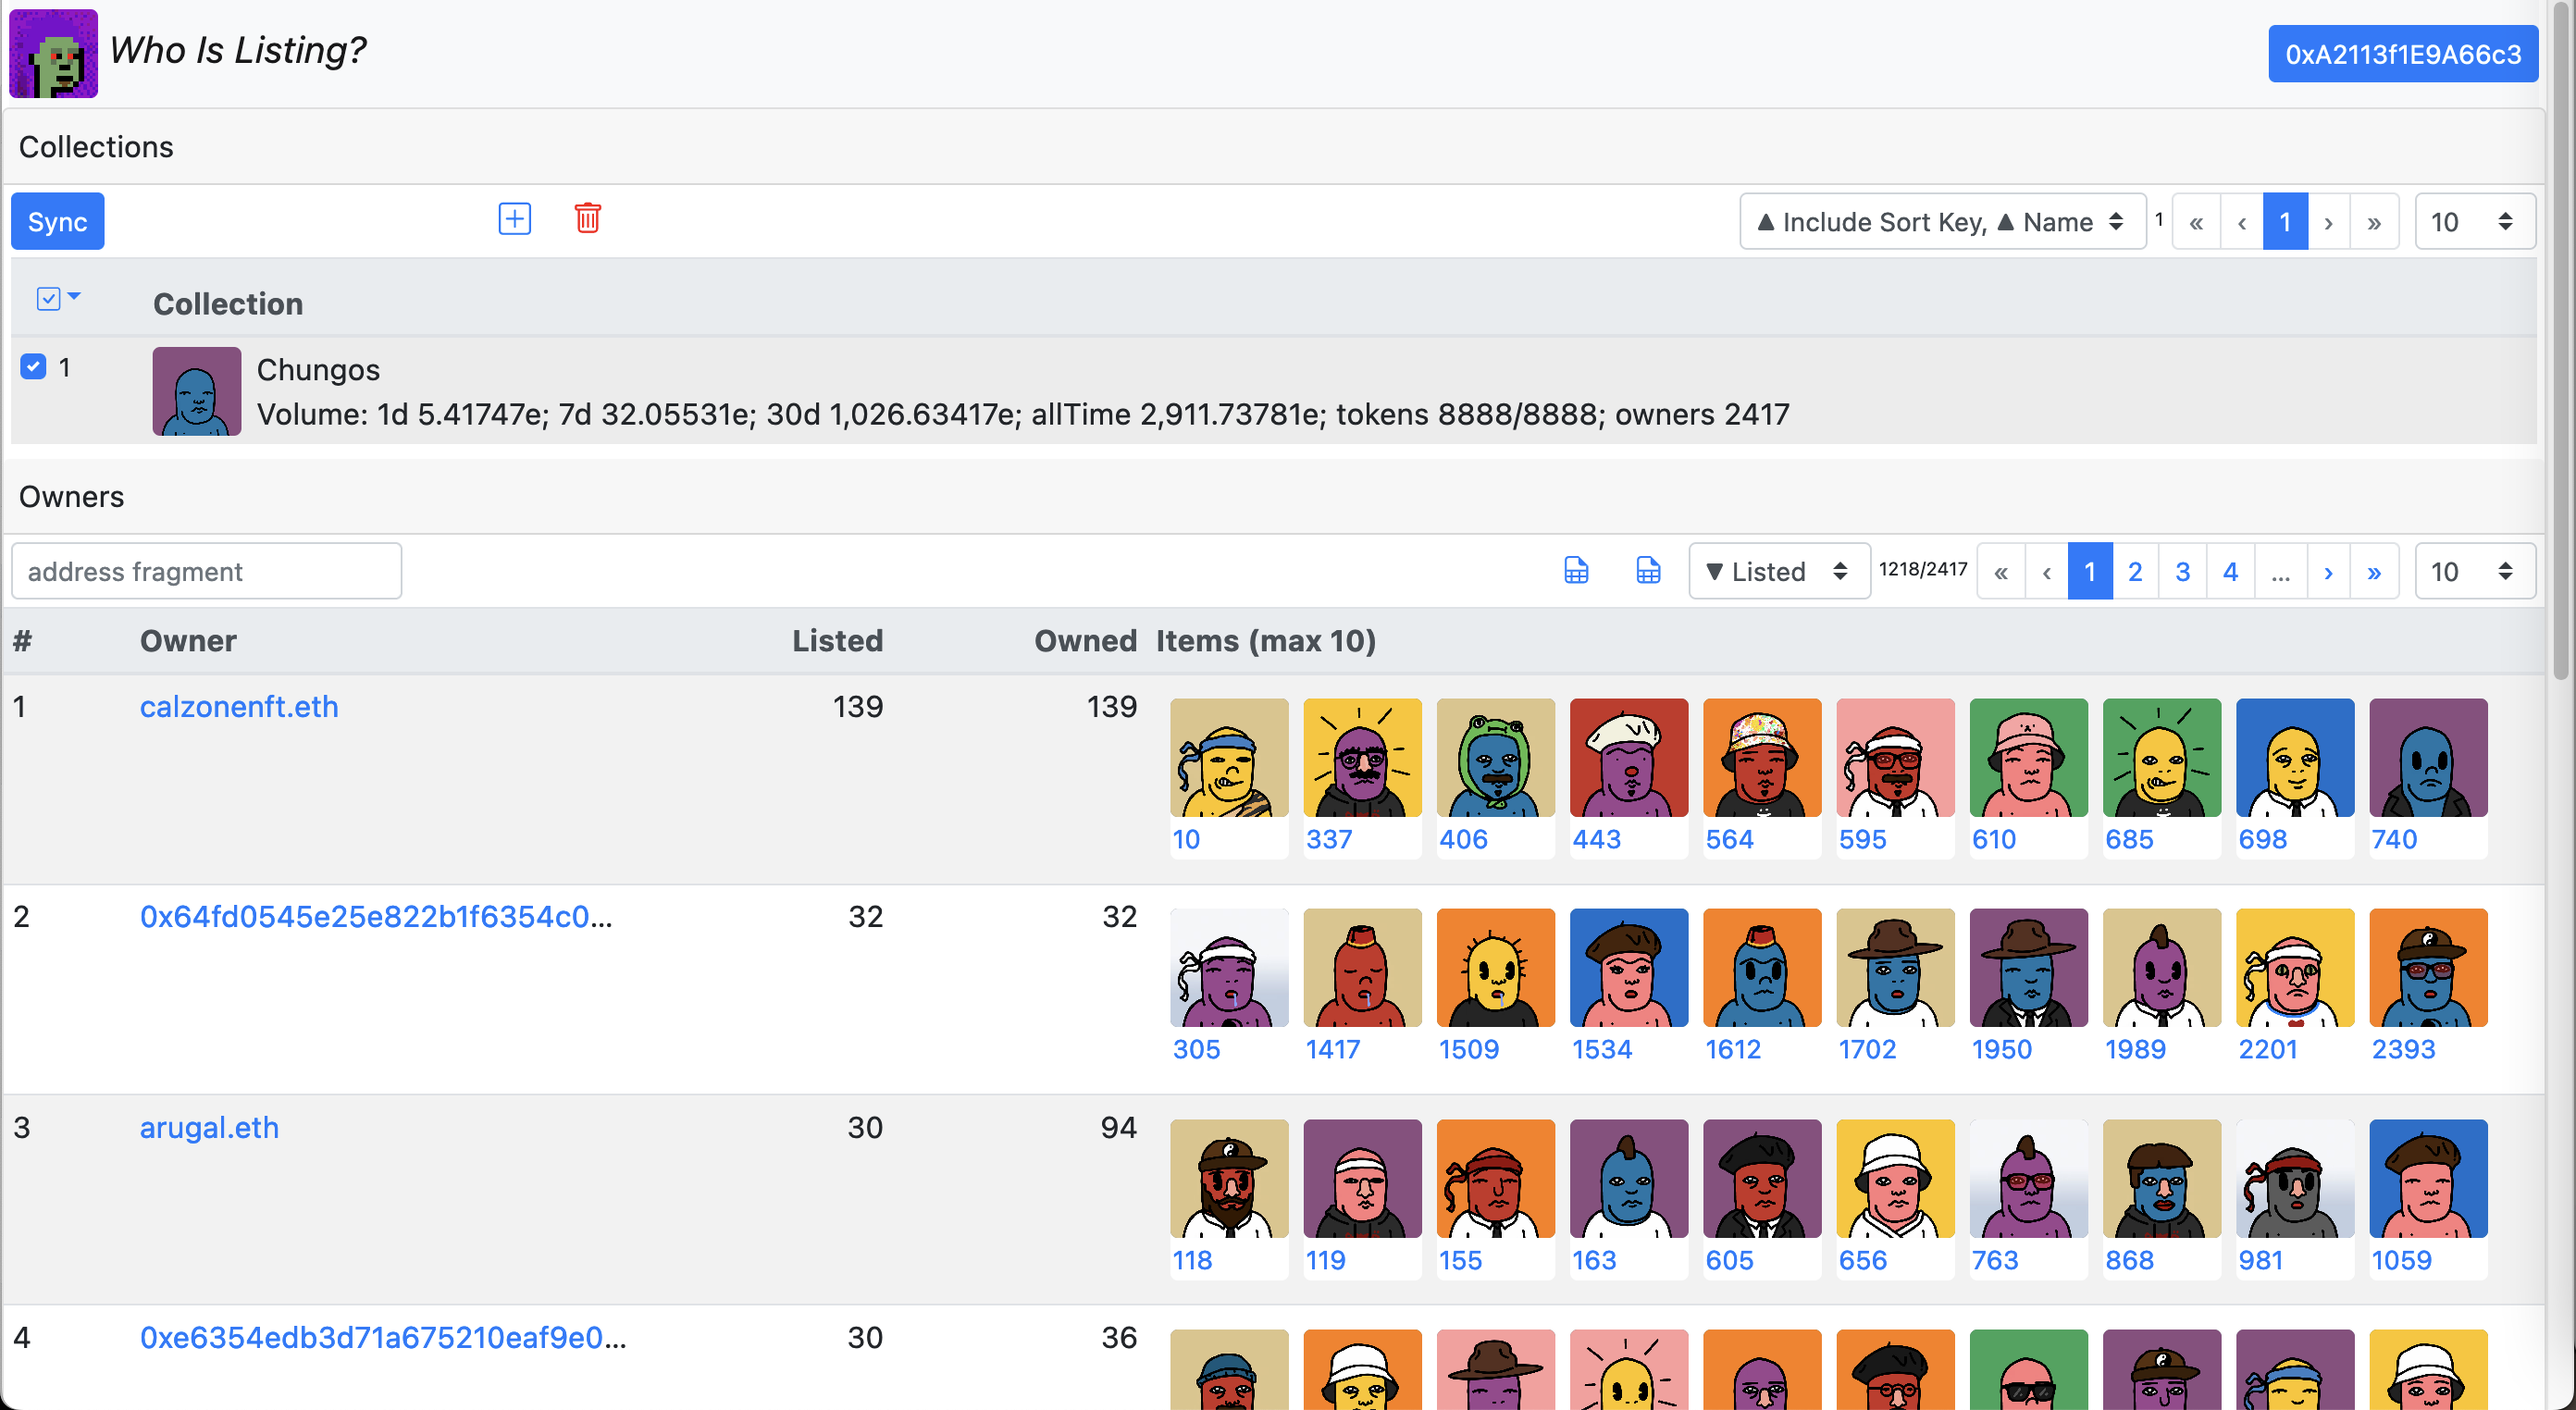
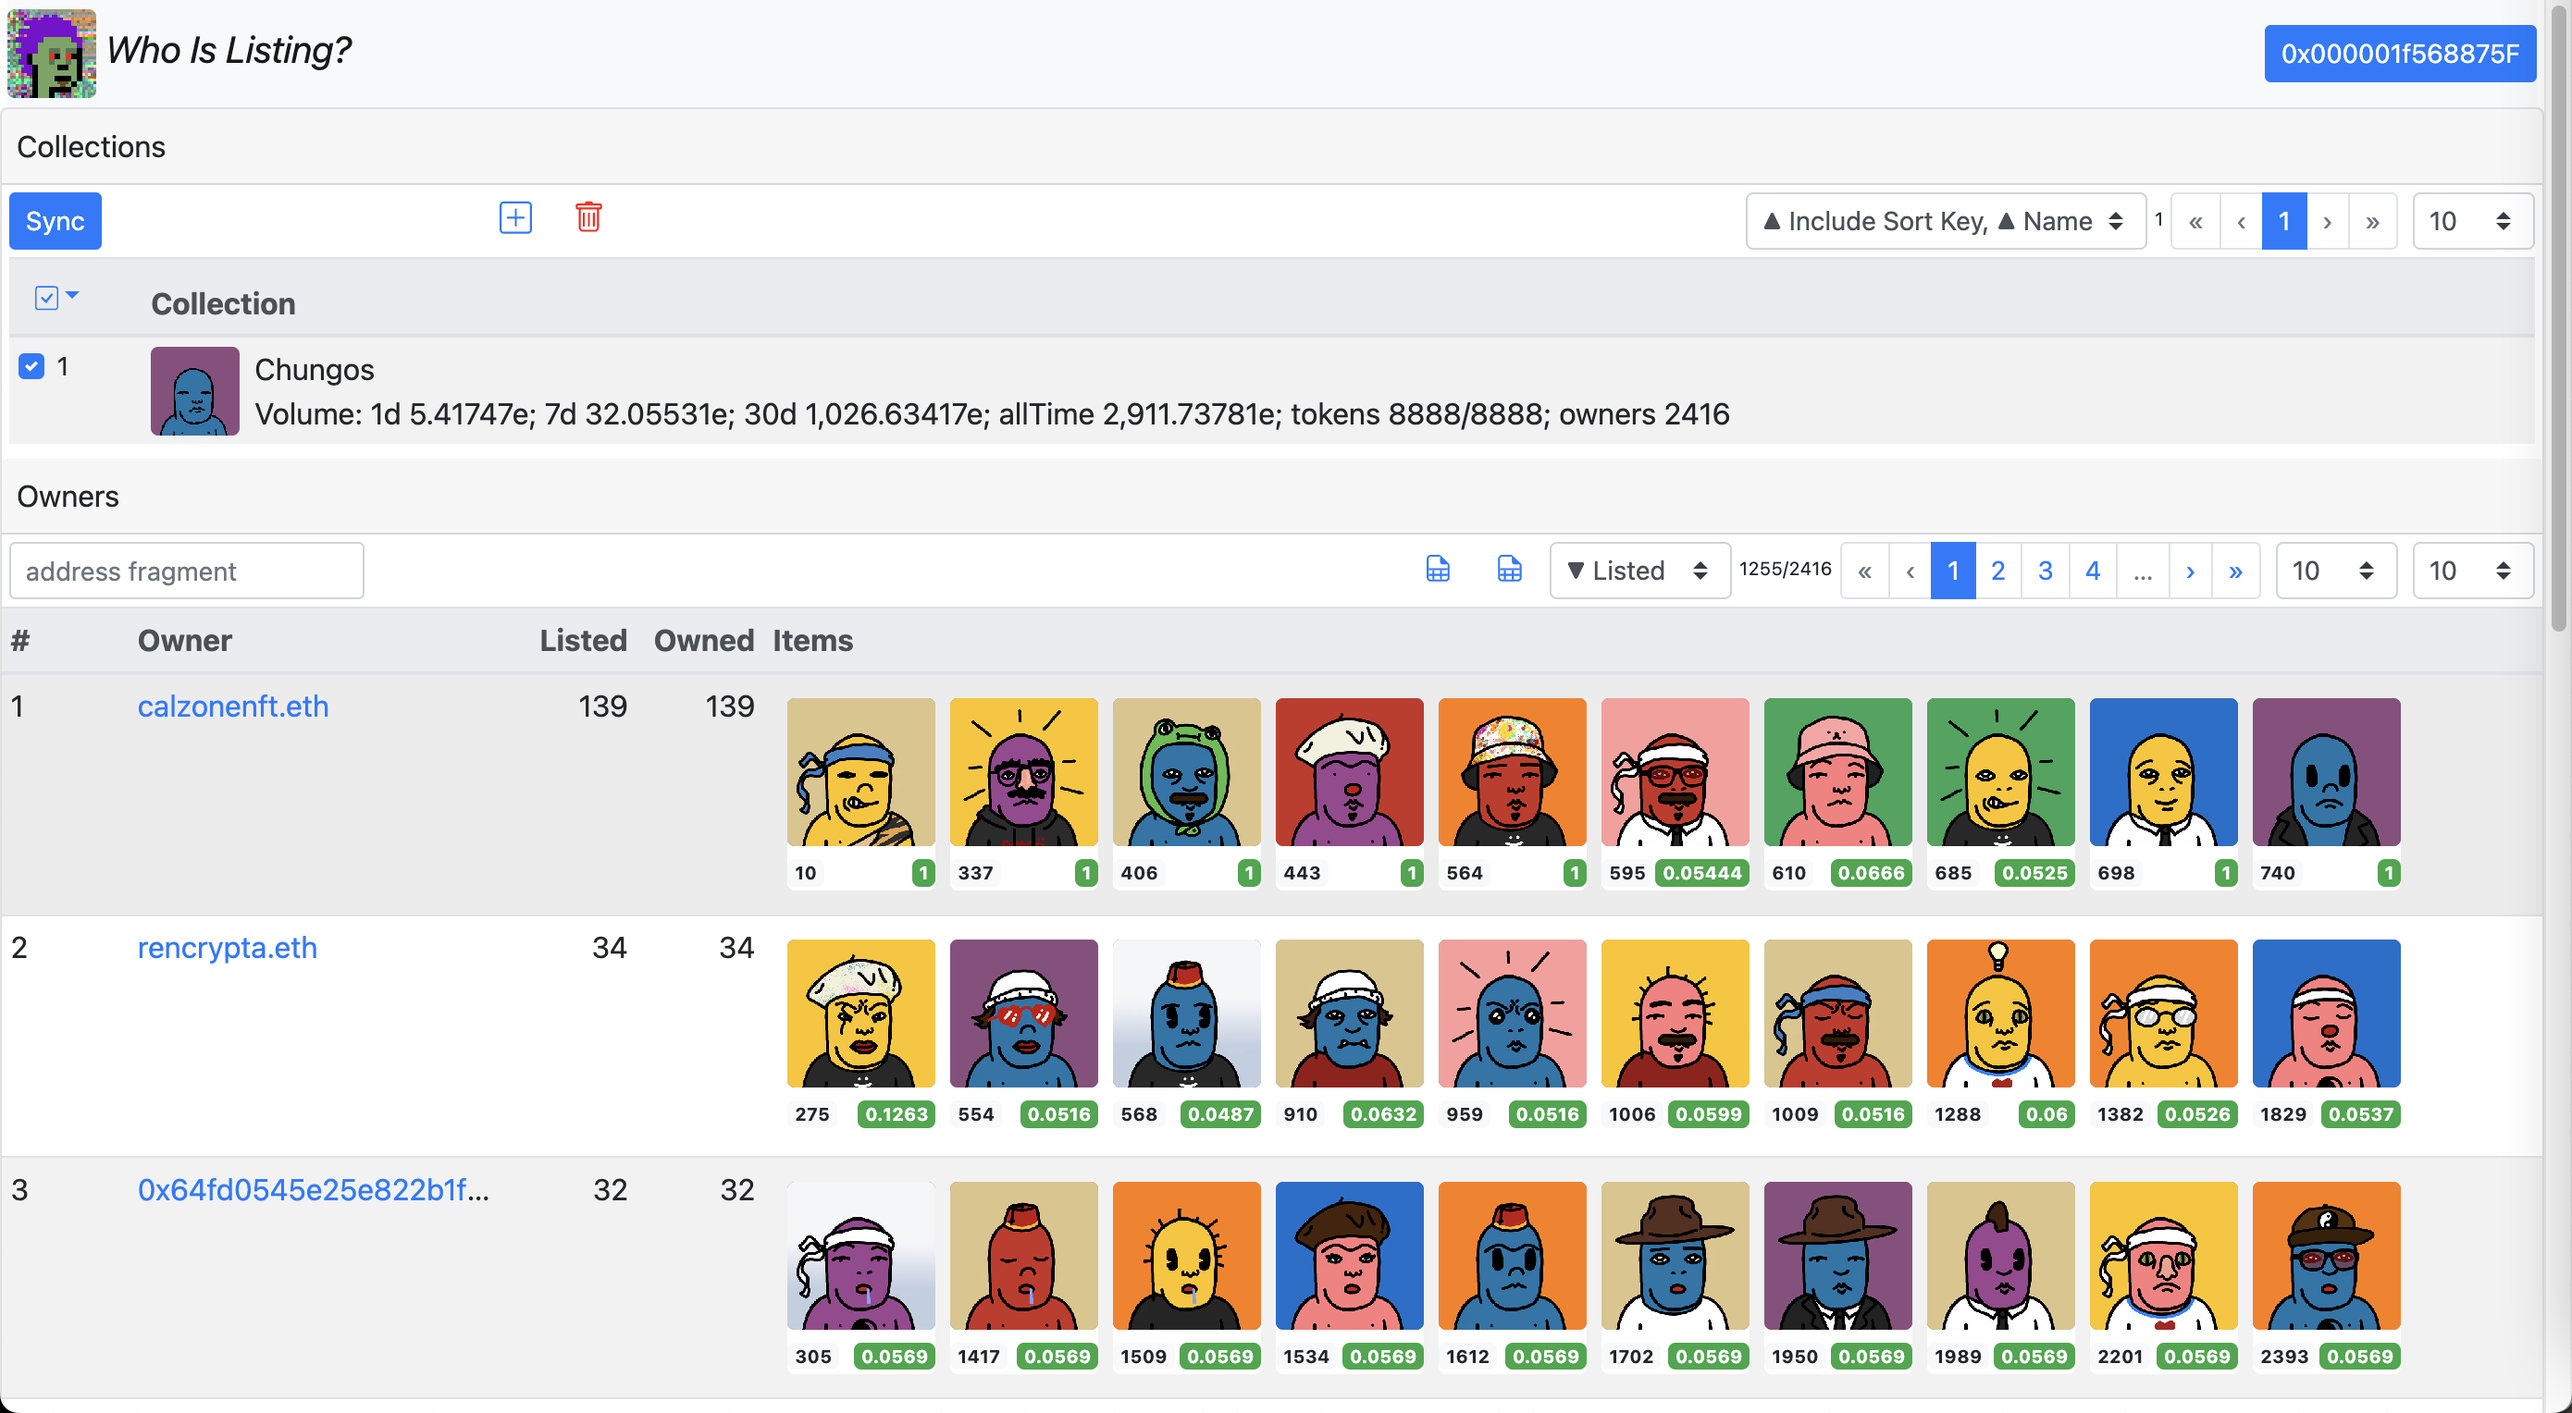
display prices

diff --git a/docs/index.html b/docs/index.html
@@ -212,7 +212,7 @@
                 <b-form-select size="sm" v-model="settings.owners.maxTokens" @change="settingsUpdated" :options="pageSizes" v-b-popover.hover.top="'Max tokens to display'"></b-form-select>
               </div>
             </div>
-            <b-table small fixed striped selectable responsive hover :fields="ownersFields" :items="pagedFilteredSortedOwners" show-empty empty-html="[+] to add NFT collection, select single collection then [Sync].<br /><br />Note: ENS names only retrieved for the last synced collection" head-variant="light" class="m-0 mt-1">
+            <b-table small fixed striped responsive hover :fields="ownersFields" :items="pagedFilteredSortedOwners" show-empty empty-html="[+] to add NFT collection, select single collection then [Sync].<br /><br />Note: ENS names only retrieved for the last synced collection" head-variant="light" class="m-0 mt-1">
               <template #cell(number)="data">
                 {{ parseInt(data.index) + ((settings.owners.currentPage - 1) * settings.owners.pageSize) + 1 }}
               </template>
@@ -237,6 +237,19 @@
                       <b-avatar button rounded size="5rem" :src="token.image"></b-avatar>
                       <b-card-text class="text-right">
                         <div class="d-flex justify-content-between m-0 p-0">
+                          <div>
+                            <font size="-1">
+                              <b-badge variant="light" v-b-popover.hover.bottom="'#' + token.tokenId">{{ token.tokenId }}</b-badge>
+                            </font>
+                          </div>
+                          <div class="flex-grow-1">
+                          </div>
+                          <div>
+                            <font size="-1">
+                              <b-badge v-if="token.price.amount" variant="success" v-b-popover.hover.bottom="token.price.amount + ' ' + token.price.currency">{{ token.price.amount }}</b-badge>
+                            </font>
+                          </div>
+                          <!--
                           <font size="-2">
                             <b-button size="sm" :id="'popover-target-' + token.tokenId" variant="link" class="m-0 p-0">
                               {{ token.tokenId }}
@@ -256,6 +269,7 @@
                               </b-link>
                             </b-popover>
                           </font>
+                          -->
                         </div>
                         <div class="flex-grow-1">
                         </div>
@@ -380,7 +394,7 @@
             { key: 'owner', label: 'Owner', sortable: false, thStyle: 'width: 15%;', tdClass: 'text-truncate' },
             { key: 'listed', label: 'Listed', sortable: false, thStyle: 'width: 5%;', thClass: 'text-right', tdClass: 'text-right' },
             { key: 'owned', label: 'Owned', sortable: false, thStyle: 'width: 5%;', thClass: 'text-right', tdClass: 'text-right' },
-            { key: 'items', label: 'Items (max 10)', sortable: false, thStyle: 'width: 70%;' },
+            { key: 'items', label: 'Items', sortable: false, thStyle: 'width: 70%;' },
           ],
           db: {
             name: "whoislisting091",
